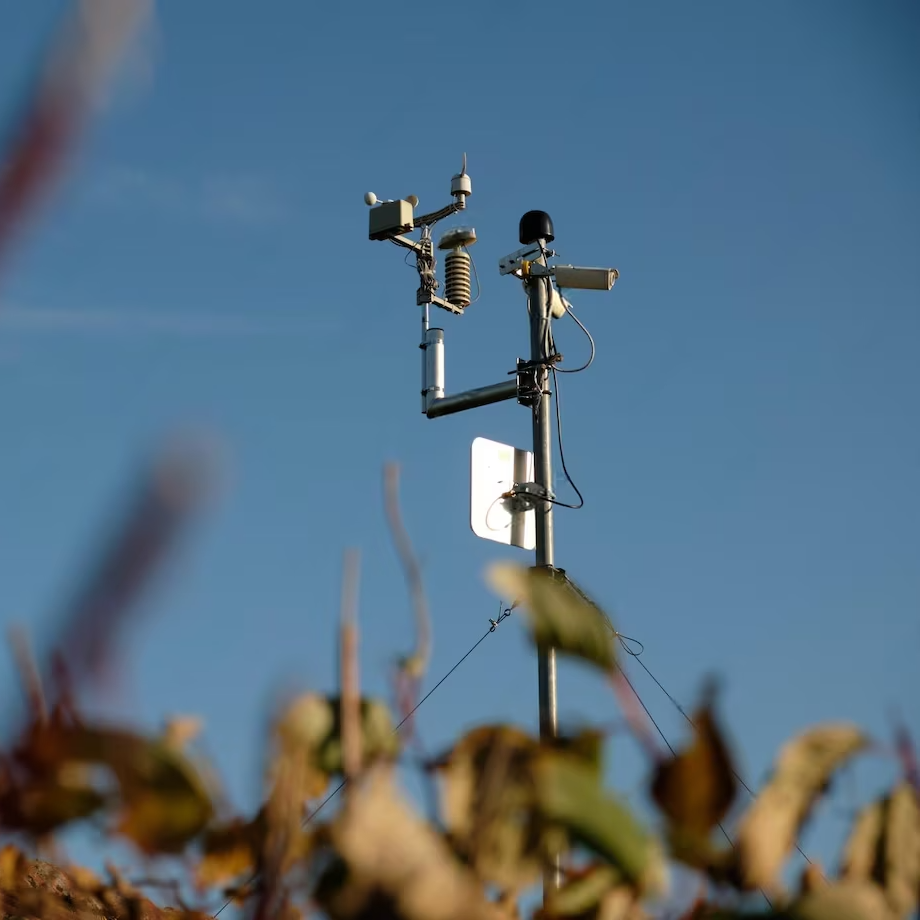
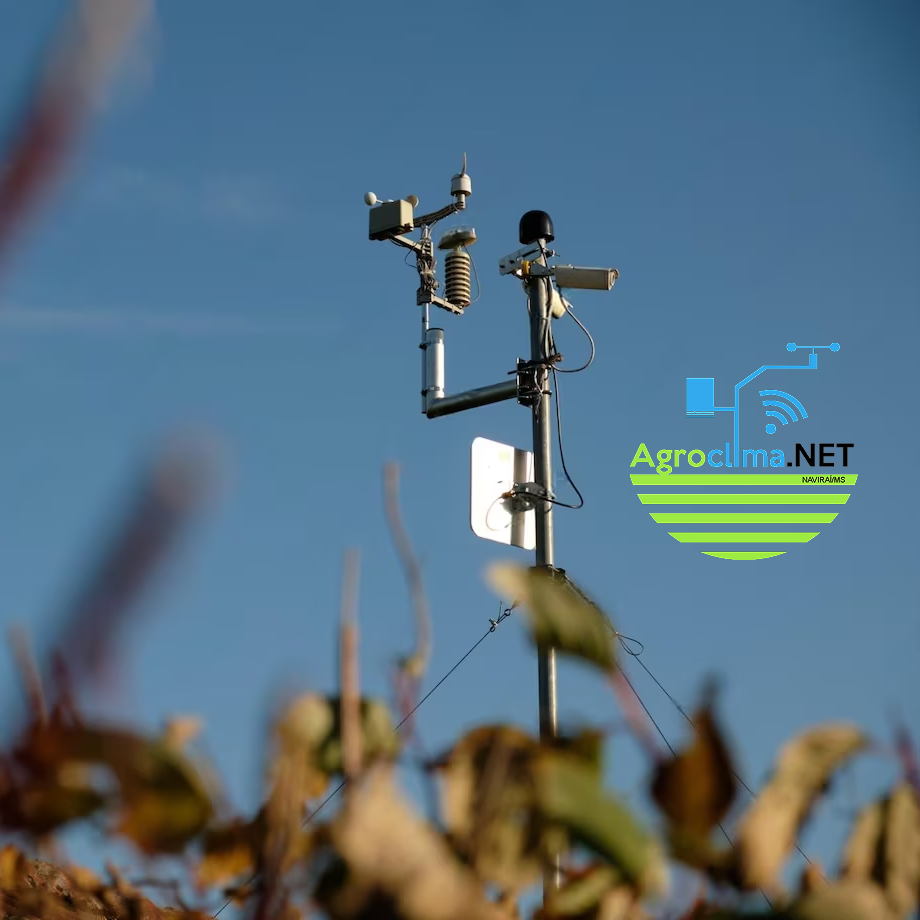
feat: bug components fix

Changed region(s): [[0.6696, 0.3652, 0.9435, 0.6087]]

diff --git a/components/navbar.tsx b/components/navbar.tsx
@@ -2,12 +2,14 @@
 
 import { useState, useEffect } from "react";
 import clsx from "clsx";
+import Image from "next/image";
 
 const menuItems = [
-  { name: "Home", href: "#home" },
-  { name: "About", href: "#about" },
-  { name: "Services", href: "#services" },
-  { name: "Contact", href: "#contact" },
+  { name: "Inicio", href: "#home" },
+  { name: "Quem Somos", href: "#about" },
+  { name: "Serviços", href: "#services" },
+  { name: "Planos", href: "#pricing" },
+  { name: "Contato", href: "#contact" },
 ];
 
 export default function Navbar() {
@@ -47,12 +49,19 @@ export default function Navbar() {
   return (
     <header
       className={clsx(
-        "fixed top-0 left-0 w-full z-50 transition-colors duration-300",
-        isScrolled ? "bg-white dark:bg-gray-900 shadow" : "bg-transparent"
+        "fixed top-0 left-0 w-full z-50 transition-all duration-300 bg-white dark:bg-gray-900",
+        isScrolled && "shadow"
       )}
     >
       <nav className="max-w-7xl mx-auto flex items-center justify-between px-4 py-4">
-        <div className="text-xl font-bold text-black dark:text-white">Logo</div>
+        <div className="text-xl font-bold text-black dark:text-white">Agroclima.NET</div>
+        {/* <Image 
+          alt="Logo"
+          src="/agroclima2.png"
+          width={40}
+          height={40}
+        /> */}
+        
 
         <div className="md:hidden">
           <button

diff --git a/components/brand-carousel.tsx b/components/brand-carousel.tsx
@@ -1,26 +1,26 @@
 const logos = [
     {
-      src: "https://placehold.co/158x48",
+      src: "https://placehold.co/158x60",
       alt: "Transistor",
     },
     {
-      src: "https://placehold.co/158x48",
+      src: "https://placehold.co/158x60",
       alt: "Reform",
     },
     {
-      src: "https://placehold.co/158x48",
+      src: "https://placehold.co/158x60",
       alt: "Tuple",
     },
     {
-      src: "https://placehold.co/158x48",
+      src: "https://placehold.co/158x60",
       alt: "SavvyCal",
     },
     {
-      src: "https://placehold.co/158x48",
+      src: "https://placehold.co/158x60",
       alt: "Statamic",
     },
     {
-      src: "https://placehold.co/158x48",
+      src: "https://placehold.co/158x60",
       alt: "Laravel",
     },
   ];

diff --git a/components/hero-section.tsx b/components/hero-section.tsx
@@ -60,13 +60,13 @@ export default function HeroSection() {
               className="flex flex-col sm:flex-row gap-4"
             >
               <motion.div variants={buttonVariant(0.7)}>
-                <Button size="lg" className="bg-white text-black hover:bg-white/90">
+                <Button >
                   Solicite uma Demonstração
                 </Button>
               </motion.div>
 
               <motion.div variants={buttonVariant(0.9)}>
-                <Button size="lg" variant="outline" className="border-white text-white hover:bg-white/10">
+                <Button variant={"outline"}>
                   Conheça Nossas Soluções
                 </Button>
               </motion.div>

diff --git a/components/pricing-section.tsx b/components/pricing-section.tsx
@@ -4,7 +4,7 @@ import { Check } from "lucide-react";
 
 export default function PricingCard() {
   return (
-    <div className="min-h-screen flex flex-col justify-center items-center py-12 px-6">
+    <section className="min-h-screen flex flex-col justify-center items-center py-12 px-6" id="pricing">
       <div className="text-center mb-10 pt-8">
         <h1 className="text-5xl font-extrabold text-gray-800 mb-4">Acesse a Plataforma AgroClima</h1>
         <p className="text-lg text-gray-600 max-w-2xl mx-auto">
@@ -44,6 +44,6 @@ export default function PricingCard() {
           </CardContent>
         </Card>
       </div>
-    </div>
+    </section>
   );
 }

diff --git a/components/contact-section.tsx b/components/contact-section.tsx
@@ -3,8 +3,11 @@ import { Send } from "lucide-react"
 
 export default function ContactSection() {
   return (
-    <section className="w-full flex items-center justify-center py-4 px-4 md:px-0" id="contact">
-      <div className="container mx-auto my-8 md:my-0">
+    <section
+      className="w-full h-screen flex items-center justify-center py-4 px-4 md:px-0"
+      id="contact"
+    >
+      <div className="w-full h-full flex items-center justify-center">
         <div className="rounded-xl shadow-lg overflow-hidden flex flex-col md:flex-row w-full max-w-6xl mx-auto">
           {/* Image section */}
           <div className="relative md:w-1/3 h-[550px]">

diff --git a/components/features-section.tsx b/components/features-section.tsx
@@ -3,7 +3,7 @@ import { Cloud, Thermometer, MapPin, RefreshCcw } from "lucide-react"
 
 export default function FeatureSection() {
   return (
-    <section className="w-full py-16 px-4 md:px-8 lg:px-16">
+    <section className="w-full py-16 px-4 md:px-8 lg:px-16" id="services">
       <div className="max-w-6xl mx-auto">
         <div className="text-center mb-12">
           <p className="text-sm text-gray-500 mb-2">Monitoramento Climático Inteligente</p>

diff --git a/components/about-section.tsx b/components/about-section.tsx
@@ -3,7 +3,7 @@ import { Sprout, Tractor } from "lucide-react"
 
 export default function AboutSection() {
     return (
-        <section className="w-full py-16" id="about">
+        <section className="w-full h-full py-16" id="about">
             <div className="container mx-auto px-4">
                 <div className="grid grid-cols-1 gap-8 md:grid-cols-2">
                     {/* Left column with image and stats */}

diff --git a/app/page.tsx b/app/page.tsx
@@ -13,8 +13,9 @@ export default function Home() {
   return (
     <main>
       <Navbar />
-
-      <HeroSection />
+      <div className="mt-14"> {/* 64px de padding top */}
+        <HeroSection />
+      </div>
       <BrandCarousel />
       <AboutSection />
       <FeatureSection />
